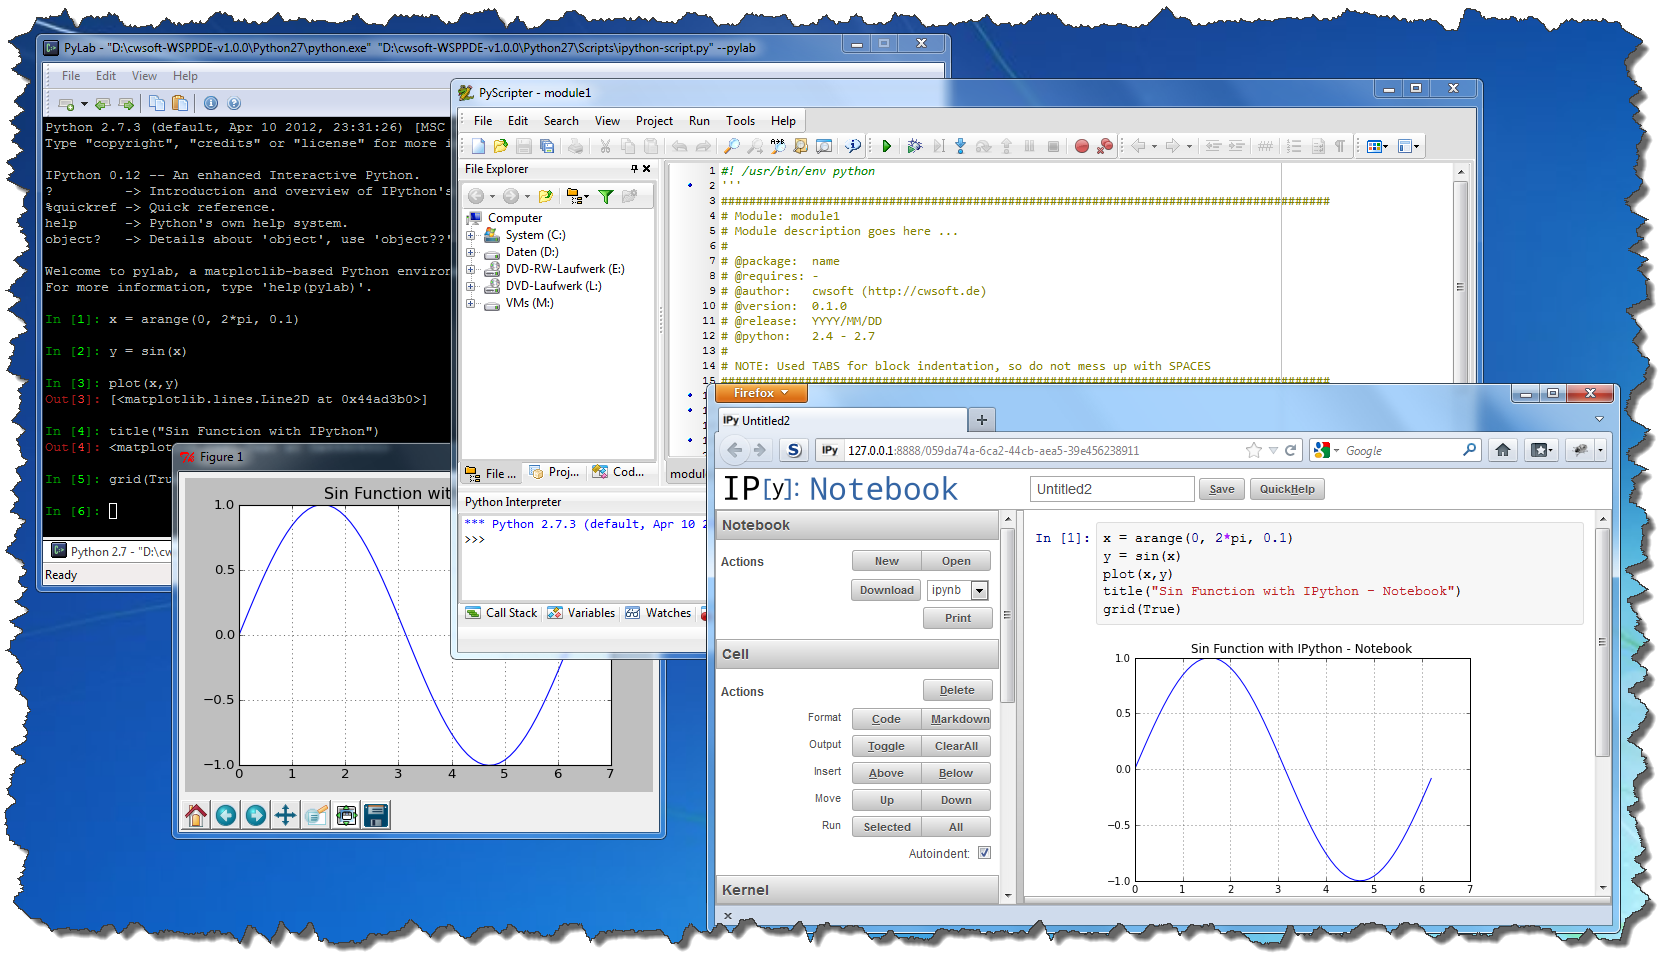
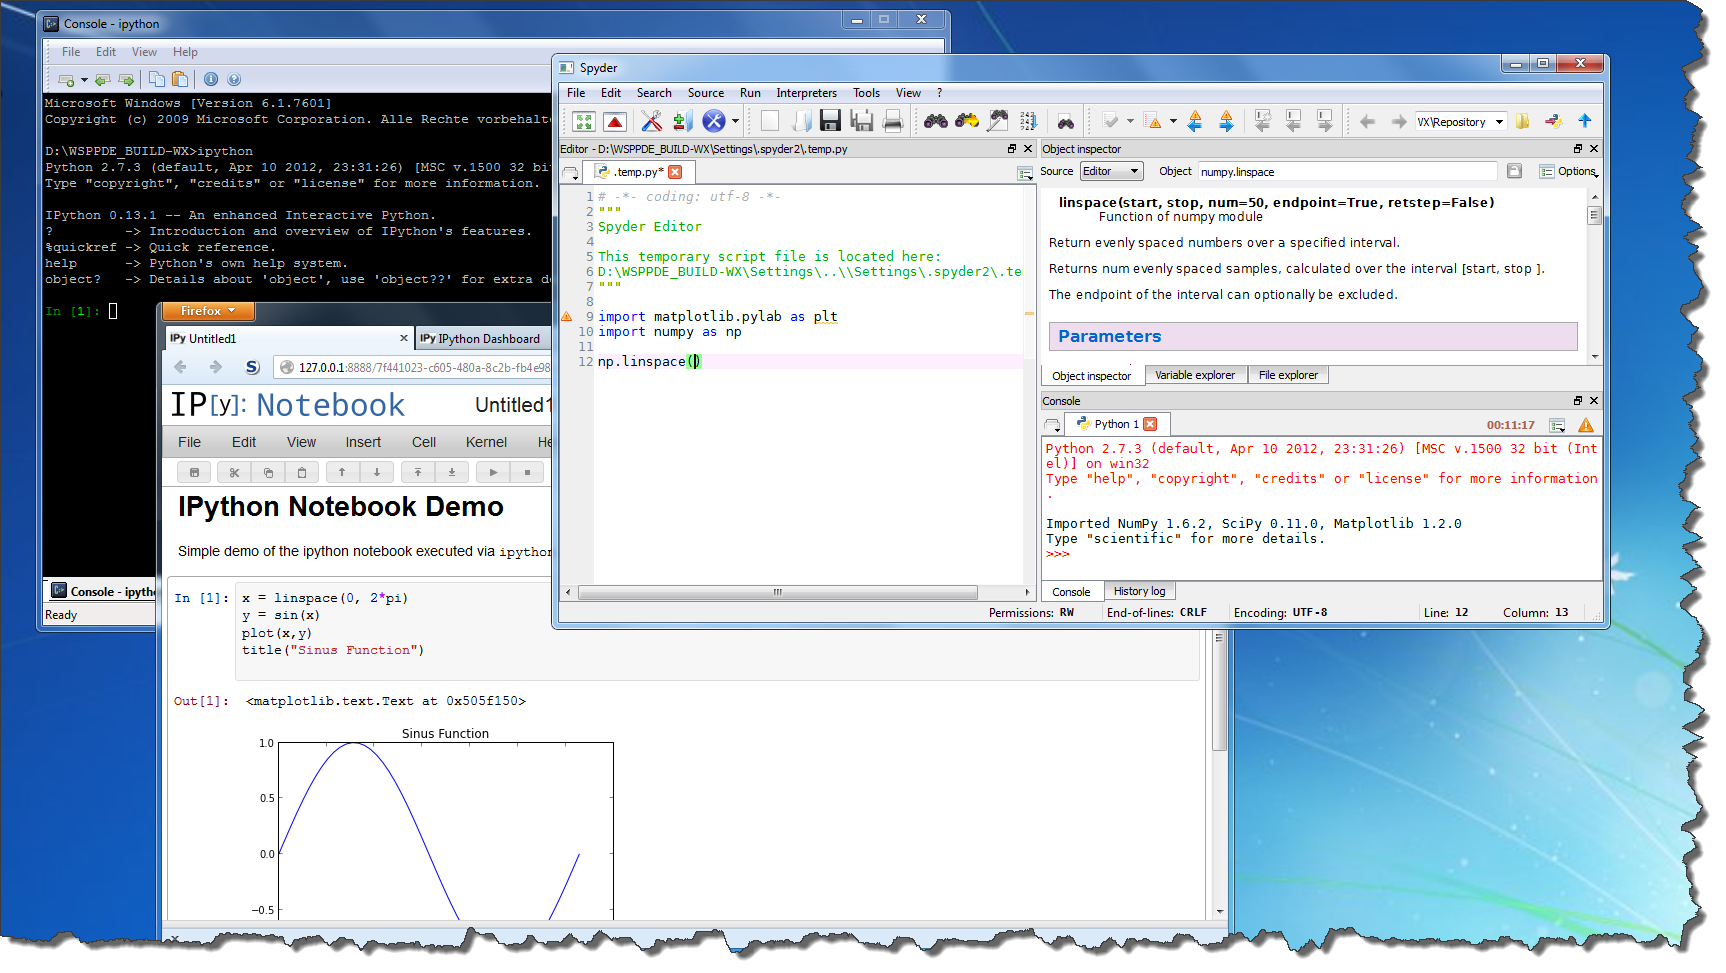
Issued WSPPDE 2012-8:
- replaced IDE PyScripter by Spyder2
- removed wxPython from default WSPPDE package (available as WSPPDE plugin)
- moved 3rd party settings (ipython, matplotlib, spyder) into Settings folder
- reworked and simplified all WSPPDE batch scripts
- updated packages: IPython, Matplotlib, Pandas

diff --git a/PACKAGES.md b/PACKAGES.md
@@ -1,15 +1,15 @@
-# List of Software/Packages distributed with WSPPDE 2012-7
+# List of Software/Packages distributed with WSPPDE 2012-8
 
 ## Third party software
 - [Console-2.00b148-Beta_32bit](http://sourceforge.net/projects/console/files/)
-- [PyScripter-v2.5.3.zip](http://code.google.com/p/pyscripter/downloads/list)
+- [spyder-2.1.11-py2.7.egg](http://code.google.com/p/spyderlib/)
 - [python-2.7.3.msi](http://python.org/download/)
 
 ## Third party Python packages
-- [ipython-0.13.py2-win32.exe](http://pypi.python.org/pypi/ipython#downloads)
-- [matplotlib-1.1.1.win32-py2.7.exe](http://sourceforge.net/projects/matplotlib/files/matplotlib/)
+- [ipython-0.13.1.py2-win32.exe](http://pypi.python.org/pypi/ipython#downloads)
+- [matplotlib-1.2.0.win32-py2.7.exe](http://sourceforge.net/projects/matplotlib/files/matplotlib/)
 - [numpy-1.6.2-win32-superpack-python2.7.exe](http://sourceforge.net/projects/numpy/files/NumPy/)
-- [pandas-0.9.0.win32-py2.7.exe](http://pypi.python.org/pypi/pandas#downloads)
+- [pandas-0.9.1.win32-py2.7.exe](http://pypi.python.org/pypi/pandas#downloads)
 - [pip-1.2.1-py2.7.egg](http://pypi.python.org/pypi/pip)
 - [pyreadline-2.0-dev1.win32.exe](https://launchpad.net/pyreadline/+download)
 - [pyzmq-2.2.0.1-py2.7-win32.egg](http://www.zeromq.org/bindings:python)
@@ -17,6 +17,12 @@
 - [setuptools-0.6c11.win32-py2.7.exe](http://pypi.python.org/pypi/setuptools#files)
 - [statsmodels-0.4.3.win32-py2.7.exe](http://pypi.python.org/pypi/statsmodels)
 - [tornado-2.4-py2.7.egg-info](http://pypi.python.org/pypi/tornado/)
-- [wxPython2.8-win32-unicode-2.8.12.1-py27.exe](http://wxpython.org/download.php#stable)
 
+## Optional Third party plugins available for WSPPDE
+The following WSPPDE plugins are available for integration:
 
+- [WSPPDE_wxPython2.8.12.1.7z](https://github.com/cwsoft/python-cwsoft-WSPPDE/downloads)
+   - [wxPython2.8-win32-unicode-2.8.12.1-py27.exe](http://wxpython.org/download.php#stable)
+   - [wxPython2.8-win32-docs-demos-2.8.12.1.exe](http://wxpython.org/download.php#stable)
+
+To integrate the plugin into WSPPDE, download it from GitHub, extract it with [7-zip](http://www.7-zip.org/) and copy the folders "Python27" and "Repository" to your WSPPDE installation.

diff --git a/CHANGELOG.md b/CHANGELOG.md
@@ -1,6 +1,14 @@
 # WSPPDE CHANGELOG
 This files gives a brief overview of the released WSPPDE installation packages.
 
+**2012-8: Dec 02, 2012**
+
+- replaced IDE PyScripter by Spyder2
+- removed wxPython from default WSPPDE package (WSPPDE plugin available from GitHub download section)
+- moved 3rd party settings (ipython, matplotlib, spyder) into Settings folder
+- reworked and simplified all WSPPDE batch scripts
+- updated packages: IPython, Matplotlib, Pandas
+
 **2012-7: Oct 12, 2012**
 
 - updated packages: Matplotlib, Pandas, Scipy, statsmodels, Tornado, pip, PyZMQ

diff --git a/LICENSE.md b/LICENSE.md
@@ -1,7 +1,7 @@
 # License
 WSPPDE is released under [BSD License](http://www.opensource.org/licenses/bsd-license.php).  
 
-    Copyright (c) 2012, cwsoft - http://cwsoft.de
+    Copyright (c) 2012-2013, cwsoft - http://cwsoft.de
     All rights reserved.
 
     Redistribution and use in source and binary forms, with or without modification, are permitted provided that the following conditions are met:
